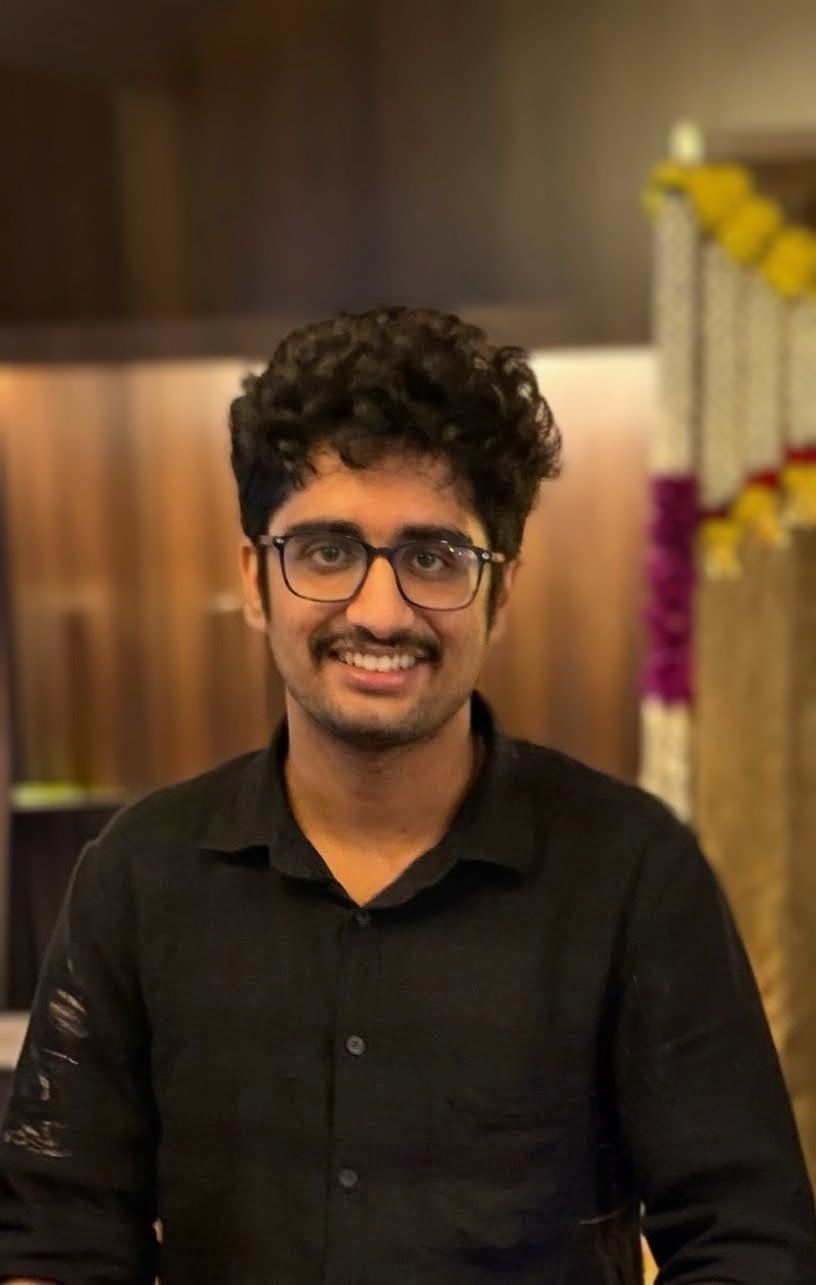
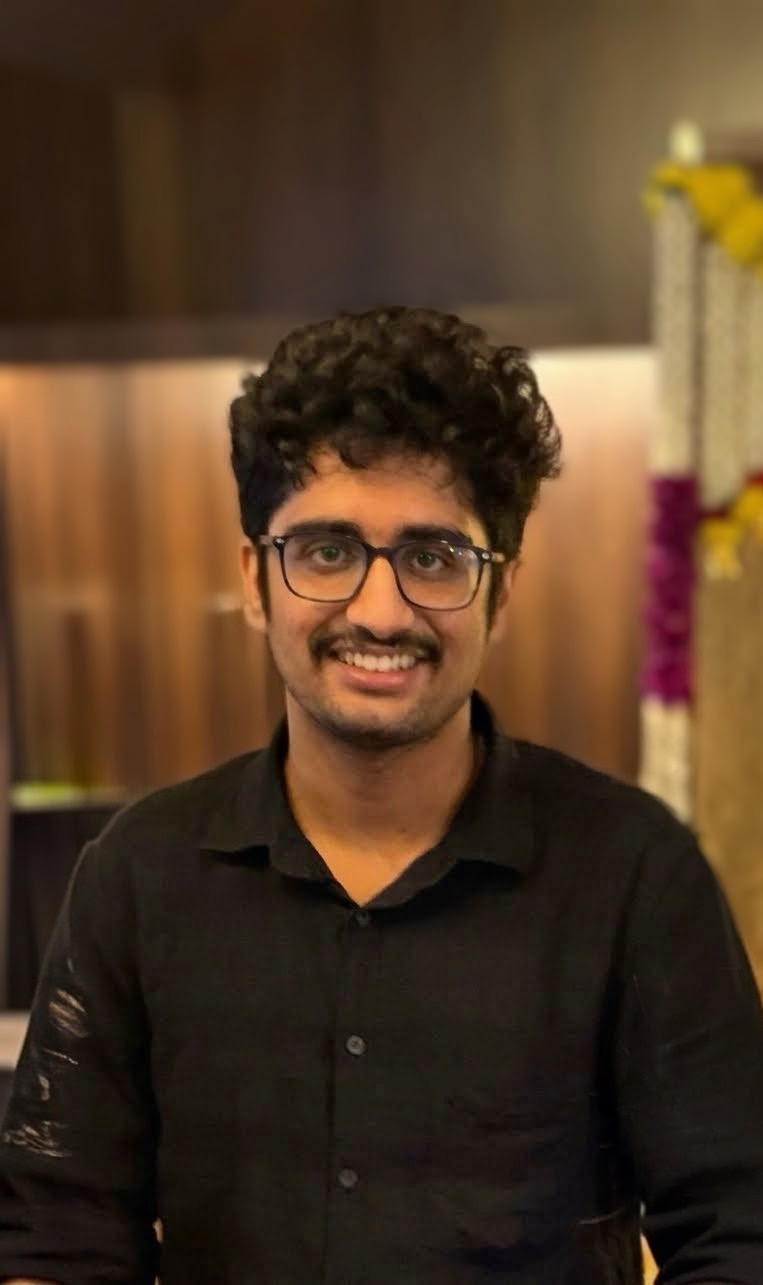
Changing images

diff --git a/anshul.html b/anshul.html
@@ -503,7 +503,7 @@
                         </ul>
                     </div>
                     <div class="project-visual">
-                        <img src="assets/microplastics.png"
+                        <img src="assets/microplastics.jpg"
                             alt="Microscopic analysis visualization grid with particle boundary indicators">
                     </div>
                 </div>
@@ -546,7 +546,7 @@
                         </ul>
                     </div>
                     <div class="project-visual">
-                        <img src="assets/network_ids.png"
+                        <img src="assets/network_ids.jpg"
                             alt="Cybersecurity network packet traffic matrix grid flow illustration">
                     </div>
                 </div>
@@ -571,6 +571,12 @@
                             <span class="skill-tag">MongoDB</span>
                             <span class="skill-tag">JWT Auth</span>
                             <span class="skill-tag">Cloudinary CDN</span>
+                        </div>
+                        <div class="project-links" style="margin-top: 1rem; margin-bottom: 1.5rem;">
+                            <a href="https://devotee-memorial-ten.vercel.app/" target="_blank" rel="noopener"
+                                class="social-btn">
+                                <i class="fas fa-external-link-alt"></i> Visit Live Site
+                            </a>
                         </div>
                         <ul class="project-desc">
                             <li>

diff --git a/style.css b/style.css
@@ -442,15 +442,7 @@ body.document-mode .slide {
   overflow: hidden;
 }
 
-.job-card::before {
-  content: '';
-  position: absolute;
-  top: 0;
-  left: 0;
-  width: 4px;
-  height: 100%;
-  background-color: var(--text-primary);
-}
+
 
 .job-header {
   display: flex;

diff --git a/game.html b/game.html
@@ -392,7 +392,7 @@
       subtitle:'FinVeritas  ·  Microplastics  ·  Network IDS  ·  ISKCON Memorial',
       body:'FinVeritas: 7-agent LLM system (LangGraph) winning 1st Rank at Industry Conclave. Microplastic Detection: 92.7% mAP@0.5 using YOLOv8/v9 + GAN augmentation. Network IDS CNN: 95%+ accuracy on CICIDS2017. ISKCON Memorial: Full-stack MERN platform with 90+ Google PageSpeed score.',
       tags:['LangGraph','YOLOv8','CNN','React.js','MongoDB','🏆 1st Rank'],
-      ctas:[{label:'FinVeritas Live',href:'https://finveritas.streamlit.app/'}]
+      ctas:[{label:'FinVeritas Live',href:'https://finveritas.streamlit.app/'},{label:'ISKCON Live',href:'https://devotee-memorial-ten.vercel.app/'}]
     },
     {
       id:'research', label:'Research',   icon:'✧', pos:[13,0],     col:0xffe66d, em:0xa09000,